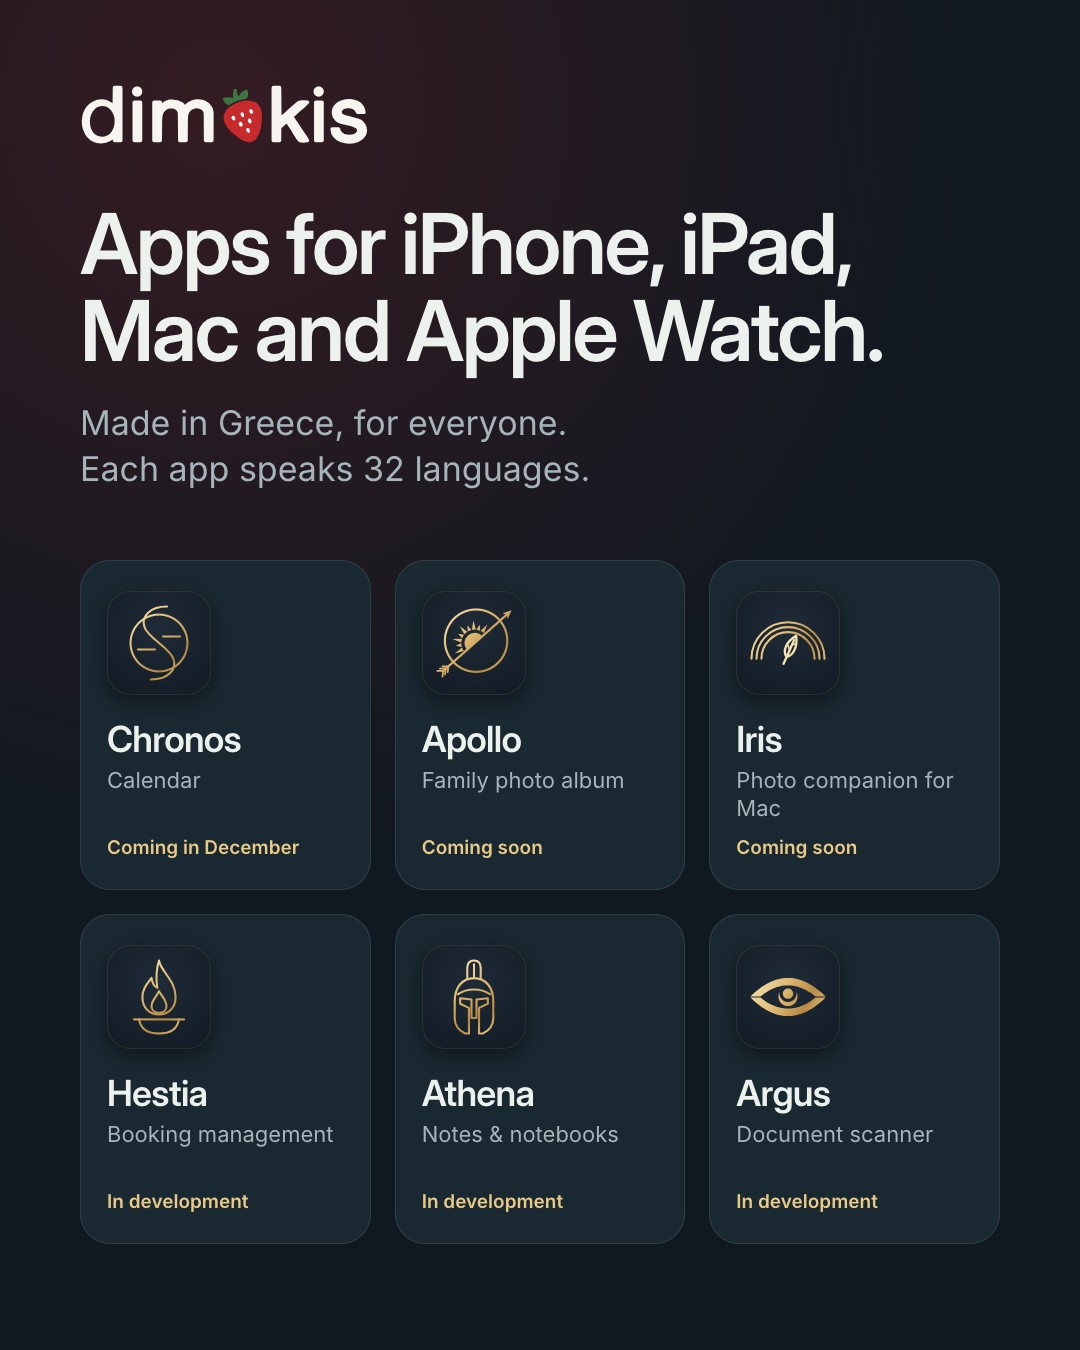
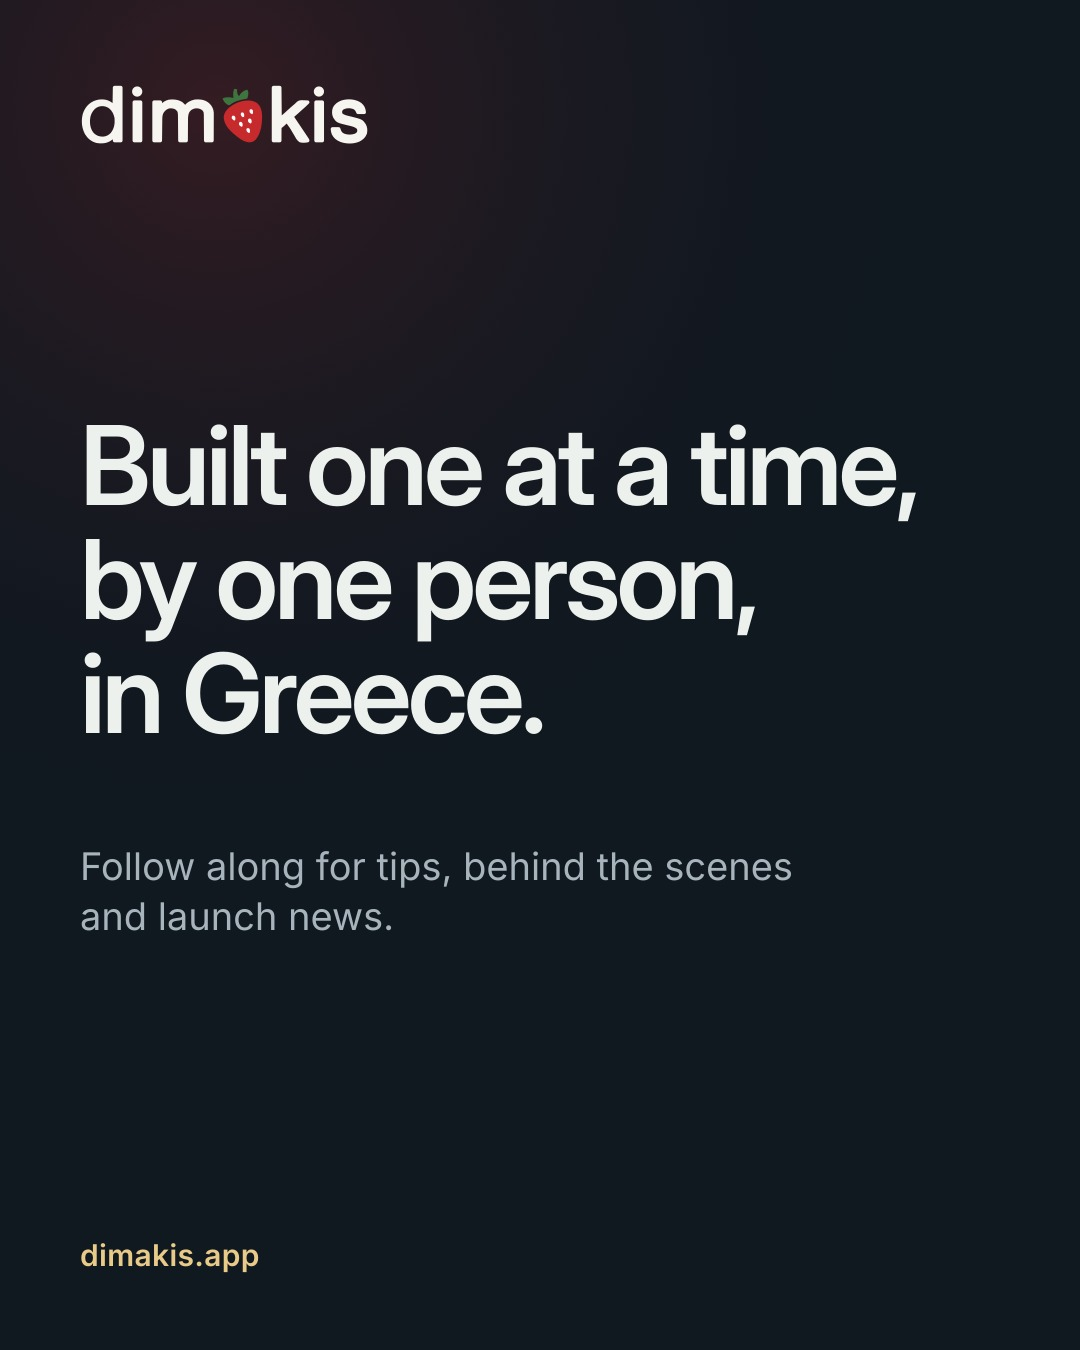
Social: αιώνια προφίλ, εξώφυλλα και εικόνα γνωριμίας, χωρίς εφαρμογές ή αριθμούς
Facebook cover, banner YouTube και 00-intro δείχνουν μόνο λογότυπο και τη φράση
«Built one at a time, by one person, in Greece.». Βιογραφικά και περιγραφή καναλιού
ξαναγράφτηκαν χωρίς λίστα εφαρμογών, συσκευές, γλώσσες ή θέμα ονομάτων.

diff --git a/_tools/social_images.js b/_tools/social_images.js
@@ -70,48 +70,32 @@ function profile() {
 }
 
 function cover() {
-  const icons = ORDER.map((k) => `<img src="${url(`assets/icons/${k}.png`)}" alt="">`).join('');
+  // Αιώνιο: μόνο το λογότυπο και μία φράση. Καμία εφαρμογή, αριθμός ή συσκευή (αλλάζουν).
   return head(1640, 624, `
     .glow{background:radial-gradient(ellipse at 50% 30%,rgba(199,42,44,.16),rgba(16,24,32,0) 60%)}
     .in{position:absolute;left:50%;top:0;bottom:0;width:1060px;transform:translateX(-50%);
-      display:flex;flex-direction:column;align-items:center;justify-content:center;gap:30px;padding-bottom:20px}
-    .logo{height:110px;width:auto}
-    p{font-family:"Inter";font-size:34px;font-weight:500;color:#A7B4BB;letter-spacing:-.01em}
-    .icons{display:flex;gap:26px;margin-top:6px}
-    .icons img{width:84px;height:84px;border-radius:19px;box-shadow:0 6px 20px rgba(0,0,0,.5)}
+      display:flex;flex-direction:column;align-items:center;justify-content:center;gap:34px;padding-bottom:20px}
+    .logo{height:124px;width:auto}
+    p{font-family:"Inter";font-size:36px;font-weight:500;color:#A7B4BB;letter-spacing:-.01em}
   `) + `<div class="glow"></div><div class="in">
     <img class="logo" src="${url('assets/dimakis-logo-dark.svg')}">
-    <p>Apps for iPhone, iPad, Mac and Apple Watch</p>
-    <div class="icons">${icons}</div></div></body></html>`;
+    <p>Built one at a time, by one person, in Greece.</p></div></body></html>`;
 }
 
 function intro() {
-  const cards = ORDER.map((k) => {
-    const a = APPS[k];
-    // Χρυσά εμβλήματα (ίδια με το εξώφυλλο Facebook και το banner YouTube), όχι τα έγχρωμα εικονίδια.
-    return `<div class="card"><div class="emb"><img src="${url(`assets/logos/${k}-emblem.svg`)}"></div>
-      <b>${a.name}</b><span>${a.kind}</span><i>${a.status}</i></div>`;
-  }).join('');
+  // Αιώνιο: χωρίς κάρτες εφαρμογών, καταστάσεις, αριθμούς γλωσσών ή συσκευές.
   return head(1080, 1350, `
     .glow{background:radial-gradient(circle at 20% 8%,rgba(199,42,44,.20),rgba(16,24,32,0) 50%)}
     .top{position:absolute;left:80px;top:84px}
     .top img{height:62px}
-    h1{position:absolute;left:80px;right:80px;top:200px;font-size:84px;line-height:1.04;font-weight:600;letter-spacing:-.03em;text-wrap:balance}
-    .sub{position:absolute;left:80px;right:80px;top:400px;font-family:"Inter";font-size:34px;line-height:1.35;color:#A7B4BB;text-wrap:balance}
-    .grid{position:absolute;left:80px;right:80px;top:560px;display:grid;grid-template-columns:repeat(3,1fr);gap:24px}
-    .card{background:#1A2831;border:1px solid rgba(237,241,238,.10);border-radius:30px;padding:30px 26px;
-      display:flex;flex-direction:column;align-items:flex-start;gap:6px;height:330px}
-    .card .emb{width:104px;height:104px;border-radius:24px;margin-bottom:16px;display:flex;align-items:center;justify-content:center;
-      background:radial-gradient(circle at 50% 35%,#1F2B38,#121A23);box-shadow:0 6px 18px rgba(0,0,0,.45),inset 0 0 0 1px rgba(233,202,136,.10)}
-    .card .emb img{width:76px;height:76px}
-    .card b{font-size:36px;font-weight:600;letter-spacing:-.02em}
-    .card span{font-family:"Inter";font-size:22px;color:#A7B4BB;line-height:1.25}
-    .card i{font-style:normal;font-family:"Inter";font-size:19px;font-weight:600;color:#E9CA88;margin-top:auto}
+    h1{position:absolute;left:80px;right:80px;top:400px;font-size:110px;line-height:1.04;font-weight:600;letter-spacing:-.035em;text-wrap:balance}
+    .sub{position:absolute;left:80px;right:80px;top:850px;font-family:"Inter";font-size:38px;line-height:1.35;color:#A7B4BB;text-wrap:balance}
+    .url{position:absolute;left:80px;bottom:84px;font-family:"Inter";font-size:30px;font-weight:600;color:#E9CA88;letter-spacing:.01em}
   `) + `<div class="glow"></div>
     <div class="top"><img src="${url('assets/dimakis-logo-dark.svg')}"></div>
-    <h1>Apps for iPhone, iPad, Mac and Apple Watch.</h1>
-    <p class="sub">Made in Greece, for everyone. Each app speaks 32 languages.</p>
-    <div class="grid">${cards}</div></body></html>`;
+    <h1>Built one at a time, by one person, in Greece.</h1>
+    <p class="sub">Follow along for tips, behind the scenes and launch news.</p>
+    <div class="url">dimakis.app</div></body></html>`;
 }
 
 function post(p) {
@@ -160,20 +144,16 @@ function post(p) {
 
 // YouTube: banner 2560×1440 με το περιεχόμενο στη «ζώνη ασφαλείας» 1546×423 στο κέντρο (φαίνεται σε κάθε συσκευή).
 function ytBanner() {
-  const icons = ORDER.map((k) => `<img src="${url(`assets/icons/${k}.png`)}" alt="">`).join('');
   return head(2560, 1440, `
     .glow{background:radial-gradient(ellipse at 50% 42%,rgba(199,42,44,.16),rgba(16,24,32,0) 45%)}
     .safe{position:absolute;left:507px;top:508px;width:1546px;height:423px;
-      display:flex;align-items:center;justify-content:center;gap:56px}
-    .logo{height:104px;width:auto}
-    .txt{display:flex;flex-direction:column;gap:22px}
-    p{font-family:"Inter";font-size:34px;font-weight:500;color:#A7B4BB;letter-spacing:-.01em}
-    .icons{display:flex;gap:18px}
-    .icons img{width:68px;height:68px;border-radius:15px;box-shadow:0 6px 18px rgba(0,0,0,.5)}
-    .sep{width:2px;height:190px;background:rgba(237,241,238,.14)}
+      display:flex;align-items:center;justify-content:center;gap:60px}
+    .logo{height:120px;width:auto}
+    p{font-family:"Inter";font-size:42px;line-height:1.3;font-weight:500;color:#A7B4BB;letter-spacing:-.01em}
+    .sep{width:2px;height:170px;background:rgba(237,241,238,.14)}
   `) + `<div class="glow"></div><div class="safe">
     <img class="logo" src="${url('assets/dimakis-logo-dark.svg')}"><div class="sep"></div>
-    <div class="txt"><p>Apps for iPhone, iPad, Mac and Apple Watch</p><div class="icons">${icons}</div></div>
+    <p>Built one at a time,<br>by one person, in Greece.</p>
   </div></body></html>`;
 }
 

diff --git a/CLAUDE.md b/CLAUDE.md
@@ -60,7 +60,6 @@
 - Λογότυπα: `~/Developer/Logos/logos/{roster,fleet,hospitality,giortes,celebrations}` (έμβλημα χρυσό από γραμμές, «CHRONOS» και από κάτω το όνομα, στην Olympos). Χτίζονται από `Logos/tools/build.py` (δίγραμμο όνομα με `Word2`).
 - Σελίδες: slug `giortes`, `roster`, `fleet`, `hospitality`. Πεδίο `greek` (υδατογράφημα) = ελληνική λέξη (ΓΙΟΡΤΕΣ, ΒΑΡΔΙΕΣ, ΣΤΟΛΟΣ, ΦΙΛΟΞΕΝΙΑ). `platforms` δέχεται και `web`.
 - **Προσωρινά**: `support_email` = `support@dimakis.app` (δεν υπάρχουν ακόμα `roster@`, `fleet@`, `hospitality@`, `giortes@`)· οι ατάκες (`tagline`) και οι περιγραφές είναι προσχέδια· χωρίς λειτουργίες/screenshots ώσπου να υπάρχει κώδικας.
-- Στα social εικόνες (`_tools/social_images.js`) οι νέες εφαρμογές δεν έχουν μπει ακόμα (και 00-intro, εξώφυλλο Facebook, banner YouTube έχουν ακόμα τη Hestia).
 - Ανοιχτά: ο τίτλος της αρχικής «ονόματα από τη μυθολογία» δεν ισχύει για τις νέες εφαρμογές· το «32 γλώσσες» δεν έχει επιβεβαιωθεί για εφαρμογές σε ανάπτυξη· η Olympos γράφει το λατινικό A σαν «Λ» στα λογότυπα.
 
 ## Κανόνες περιεχομένου
@@ -68,7 +67,7 @@
 - **Ποτέ αριθμός εφαρμογών στο κείμενο του site** (απόφαση 21/10/2026): εφαρμογές θα μπαίνουν και θα βγαίνουν.
   Ο τίτλος της αρχικής είναι «Εφαρμογές με ονόματα από τη μυθολογία» / «Apps named after Greek myth» (όχι «θεών»: ο Argus είναι γίγαντας, όχι θεός) (`_data/site.yml` → `hero_title`).
   Στα social, `profiles.md` και `youtube.md` ενημερώθηκαν· το `posts.md` (δημοσιευμένες αναρτήσεις) μένει ως ιστορικό. Τα βιογραφικά που είναι ήδη live στα δίκτυα αλλάζουν από τον χρήστη.
-  **Εκκρεμεί**: ξανατρέξιμο του `node _tools/social_images.js` (χρειάζεται Playwright, δεν είναι εγκατεστημένο) ώστε οι εικόνες 00-intro, εξώφυλλο Facebook και banner YouTube να βγουν χωρίς Hestia.
+  Οι εικόνες 00-intro, εξώφυλλο Facebook και banner YouTube ξαναφτιάχτηκαν 21/10 χωρίς εφαρμογές (βλ. «Αιώνιο περιεχόμενο προφίλ»).
 
 - **Ελληνικές λειτουργίες του Chronos** (γιορτές, εφημερεύοντα φαρμακεία και νοσοκομεία, τιμές φαρμάκων)
   φαίνονται μόνο με το «Μένω στην Ελλάδα» της εφαρμογής.
@@ -84,6 +83,7 @@
 
 Έτοιμα κείμενα και εικόνες στο `_social/` (δεν δημοσιεύεται στο site). Οδηγός και πρόγραμμα: `_social/README.md`.
 
+- **Αιώνιο περιεχόμενο προφίλ (απόφαση 21/10/2026):** βιογραφικά, εξώφυλλο Facebook, banner YouTube και η εικόνα γνωριμίας `00-intro` δεν αναφέρουν εφαρμογές, αριθμούς, συσκευές, γλώσσες, καταστάσεις ή θέμα ονομάτων, γιατί η λίστα αλλάζει. Μόνο λογότυπο και «Built one at a time, by one person, in Greece.» (πρότυπα `cover()`, `intro()`, `ytBanner()` στο `_tools/social_images.js`). Οι 3 εικόνες φτιάχτηκαν 21/10 με SVG στο Inkscape (δεν υπήρχε Playwright)· το `node _tools/social_images.js` τις βγάζει ίδιες. Εικόνες αναρτήσεων και βίντεο ανά εφαρμογή (`01-…09-`, `yt-endcard-*`, trailer) μιλούν για μία εφαρμογή και μένουν όπως είναι.
 - **Κύρια γλώσσα τα αγγλικά, δεύτερα τα ελληνικά.** Όχι 32 γλώσσες: Instagram, Threads και Facebook
   μεταφράζουν μόνα τους λεζάντες και βιογραφικά, τη μετάφραση την κάνει το App Store.
 - Βιογραφικά: αγγλικά, με μία σύντομη ελληνική γραμμή. Σύνδεσμος `dimakis.app/en/` (η ρίζα είναι ελληνική

diff --git a/_social/profiles.md b/_social/profiles.md
@@ -3,24 +3,25 @@
 Κανόνας: αγγλικά πρώτα, μία ελληνική γραμμή. Δες «Social: γλώσσα και περιεχόμενο» στο `CLAUDE.md`.
 Εικόνα προφίλ (ίδια παντού): `images/profile.png`. Εξώφυλλο Facebook: `images/facebook-cover.png`.
 
+**Αιώνια κείμενα** (απόφαση 21/10/2026): τα βιογραφικά, τα εξώφυλλα και η εικόνα γνωριμίας δεν αναφέρουν εφαρμογές, αριθμούς, συσκευές, γλώσσες ή θέμα ονομάτων, γιατί αλλάζουν. Μιλούν μόνο για τον δημιουργό και τον τρόπο που φτιάχνονται οι εφαρμογές.
+
 ---
 
 ## Instagram (`dimakisapps`)
 
 Επεξεργασία προφίλ στην εφαρμογή Instagram.
 
-**Όνομα** (όριο 30, μετράει στην αναζήτηση, 27 χαρακτήρες):
+**Όνομα** (όριο 30, μετράει στην αναζήτηση, 26 χαρακτήρες):
 
 ```
-dimakis · iPhone & Mac apps
+dimakis · apps from Greece
 ```
 
-**Βιογραφικό** (όριο 150, 140 χαρακτήρες):
+**Βιογραφικό** (όριο 150, 99 χαρακτήρες):
 
 ```
-Apps for iPhone, iPad, Mac & Apple Watch
-Calendar, family photos & more · 32 languages
-Chronos arrives in December
+Apps made one at a time, by one person
+Tips, launches & behind the scenes
 🇬🇷 Φτιαγμένες στην Ελλάδα
 ```
 
@@ -43,10 +44,10 @@ Chronos arrives in December
 
 Παίρνει όνομα και εικόνα από το Instagram. Το βιογραφικό γράφεται χωριστά.
 
-**Βιογραφικό** (όριο 150, 129 χαρακτήρες):
+**Βιογραφικό** (όριο 150, 106 χαρακτήρες):
 
 ```
-Apps for iPhone, iPad, Mac & Apple Watch, built by one person in Greece. Tips, launches, behind the scenes.
+Apps made one at a time, by one person in Greece. Tips, launches, behind the scenes.
 🇬🇷 Γράφω και ελληνικά
 ```
 
@@ -58,20 +59,20 @@ Apps for iPhone, iPad, Mac & Apple Watch, built by one person in Greece. Tips, l
 
 **Κατηγορία:** «App Page». Δεύτερη, αν θέλεις: «Software».
 
-**Εισαγωγή / Intro** (όριο 101, 85 χαρακτήρες):
+**Εισαγωγή / Intro** (όριο 101, 78 χαρακτήρες):
 
 ```
-Apps for iPhone, iPad, Mac & Apple Watch, made in Greece 🇬🇷 Εφαρμογές από την Ελλάδα.
+Apps made one at a time, by one person, in Greece 🇬🇷 Εφαρμογές από την Ελλάδα.
 ```
 
 **Λεπτομέρειες / Περισσότερα για τη σελίδα** (εδώ χωράει πλήρες κείμενο):
 
 ```
-Apps named after Greek myth. Calendar, notes, photos and document scanning for iPhone, iPad, Mac and Apple Watch, built one at a time by one person, in Greece. Every app speaks 32 languages, and your data stays on your devices and in your own cloud.
+Apps made one at a time, by one person, in Greece.
 
-Chronos, a calendar that goes beyond appointments, arrives in December. Apollo (family photo album) and Iris (photo companion for Mac) are coming soon.
+Follow along for tips, behind the scenes and launch news. All the apps are at dimakis.app.
 
-🇬🇷 Εφαρμογές με ονόματα από την ελληνική μυθολογία. Ημερολόγιο, σημειώσεις, φωτογραφίες και σάρωση εγγράφων για iPhone, iPad, Mac και Apple Watch, φτιαγμένες μία μία από έναν άνθρωπο, στην Ελλάδα.
+🇬🇷 Εφαρμογές φτιαγμένες μία μία, από έναν άνθρωπο, στην Ελλάδα. Όλες οι εφαρμογές στο dimakis.app.
 ```
 
 **Ιστότοπος:** `https://dimakis.app/en/` (και `https://dimakis.app/` αν δέχεται δεύτερο)

diff --git a/_social/youtube.md b/_social/youtube.md
@@ -39,11 +39,9 @@
 **Περιγραφή καναλιού** (όριο 1000):
 
 ```
-Apps named after Greek myth. Calendar, notes, photos and document scanning for iPhone, iPad, Mac and Apple Watch, built one at a time by one person, in Greece. Every app speaks 32 languages, and your data stays on your devices and in your own cloud.
+Apps made one at a time, by one person, in Greece.
 
 Here: short tips, how-to guides and launch news.
-
-Chronos, a calendar that goes beyond appointments, arrives in December. Apollo (family photo album) and Iris (photo companion for Mac) are coming soon.
 
 Get notified on launch day: https://dimakis.app/en/
 ```
@@ -51,11 +49,9 @@ Get notified on launch day: https://dimakis.app/en/
 **Μετάφραση στα ελληνικά:**
 
 ```
-Εφαρμογές με ονόματα από την ελληνική μυθολογία. Ημερολόγιο, σημειώσεις, φωτογραφίες και σάρωση εγγράφων για iPhone, iPad, Mac και Apple Watch, φτιαγμένες μία μία από έναν άνθρωπο, στην Ελλάδα. Κάθε εφαρμογή μιλά 32 γλώσσες, και τα δεδομένα σου μένουν στις συσκευές σου και στο δικό σου cloud.
+Εφαρμογές φτιαγμένες μία μία, από έναν άνθρωπο, στην Ελλάδα.
 
 Εδώ: σύντομες συμβουλές, οδηγοί και νέα για τις κυκλοφορίες.
-
-Το Chronos, ένα ημερολόγιο που δεν σταματά στα ραντεβού, έρχεται τον Δεκέμβριο. Το Apollo (οικογενειακό άλμπουμ) και το Iris (βοηθός φωτογραφιών για Mac) έρχονται σύντομα.
 
 Ειδοποίηση τη μέρα της κυκλοφορίας: https://dimakis.app/
 ```

diff --git a/_social/README.md b/_social/README.md
@@ -9,7 +9,7 @@
 | `posts.md` | 10 αναρτήσεις: κείμενο Instagram/Facebook, κείμενο Threads, alt text, σύνδεσμοι |
 | `images/profile.png` | Εικόνα προφίλ 1080×1080 (ίδια παντού, αντέχει το κυκλικό κόψιμο) |
 | `images/facebook-cover.png` | Εξώφυλλο Facebook 1640×624 (το περιεχόμενο στο κέντρο, ώστε να μην κόβεται στο κινητό) |
-| `images/00-intro.jpg` … `09-*.jpg` | Εικόνες αναρτήσεων 1080×1350 (4:5) |
+| `images/00-intro.jpg` … `09-*.jpg` | Εικόνες αναρτήσεων 1080×1350 (4:5). Η `00-intro` είναι αιώνια (χωρίς εφαρμογές) |
 | `youtube.md` | Κανάλι YouTube: στήσιμο, κείμενα για τα 2 trailer, Shorts, οδηγοί, πρόγραμμα |
 | `shorts.yml`, `subtitles/` | Σενάρια των 9 Shorts και οι υπότιτλοί τους (αγγλικά, ελληνικά) |
 | `video/` | Trailer Chronos και Apollo για YouTube, με «Coming…» στην τελική κάρτα |
